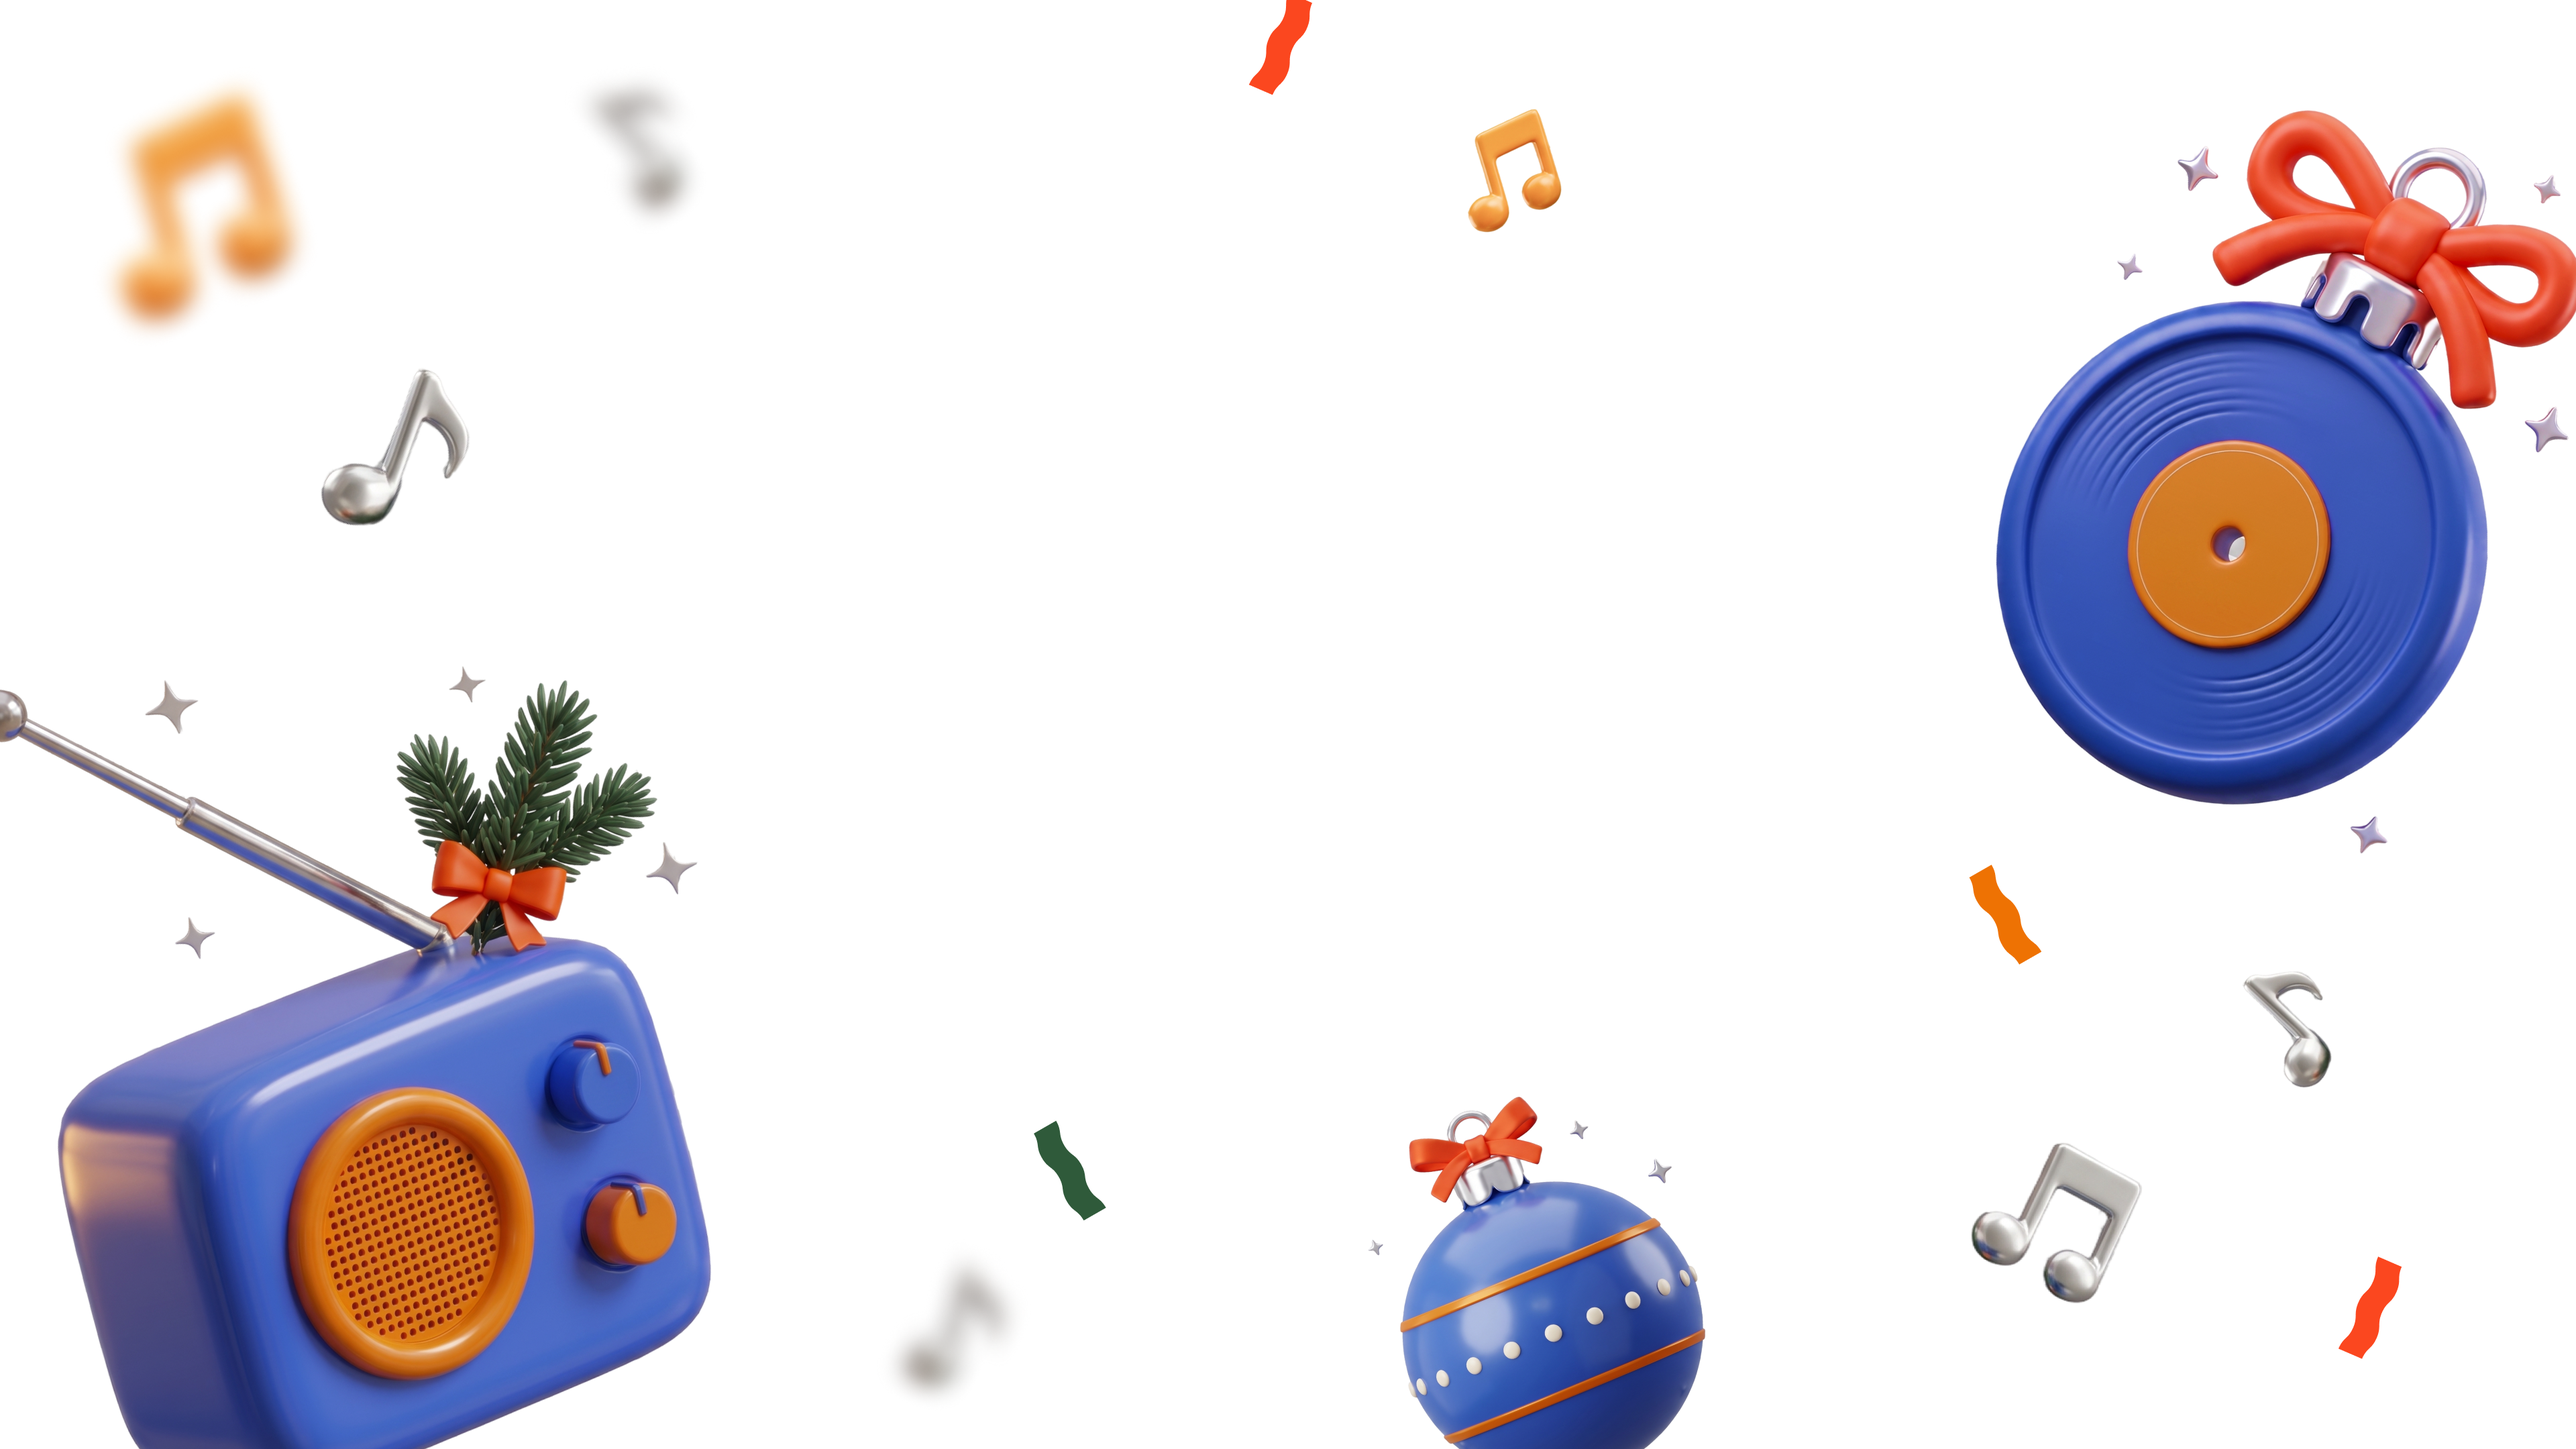
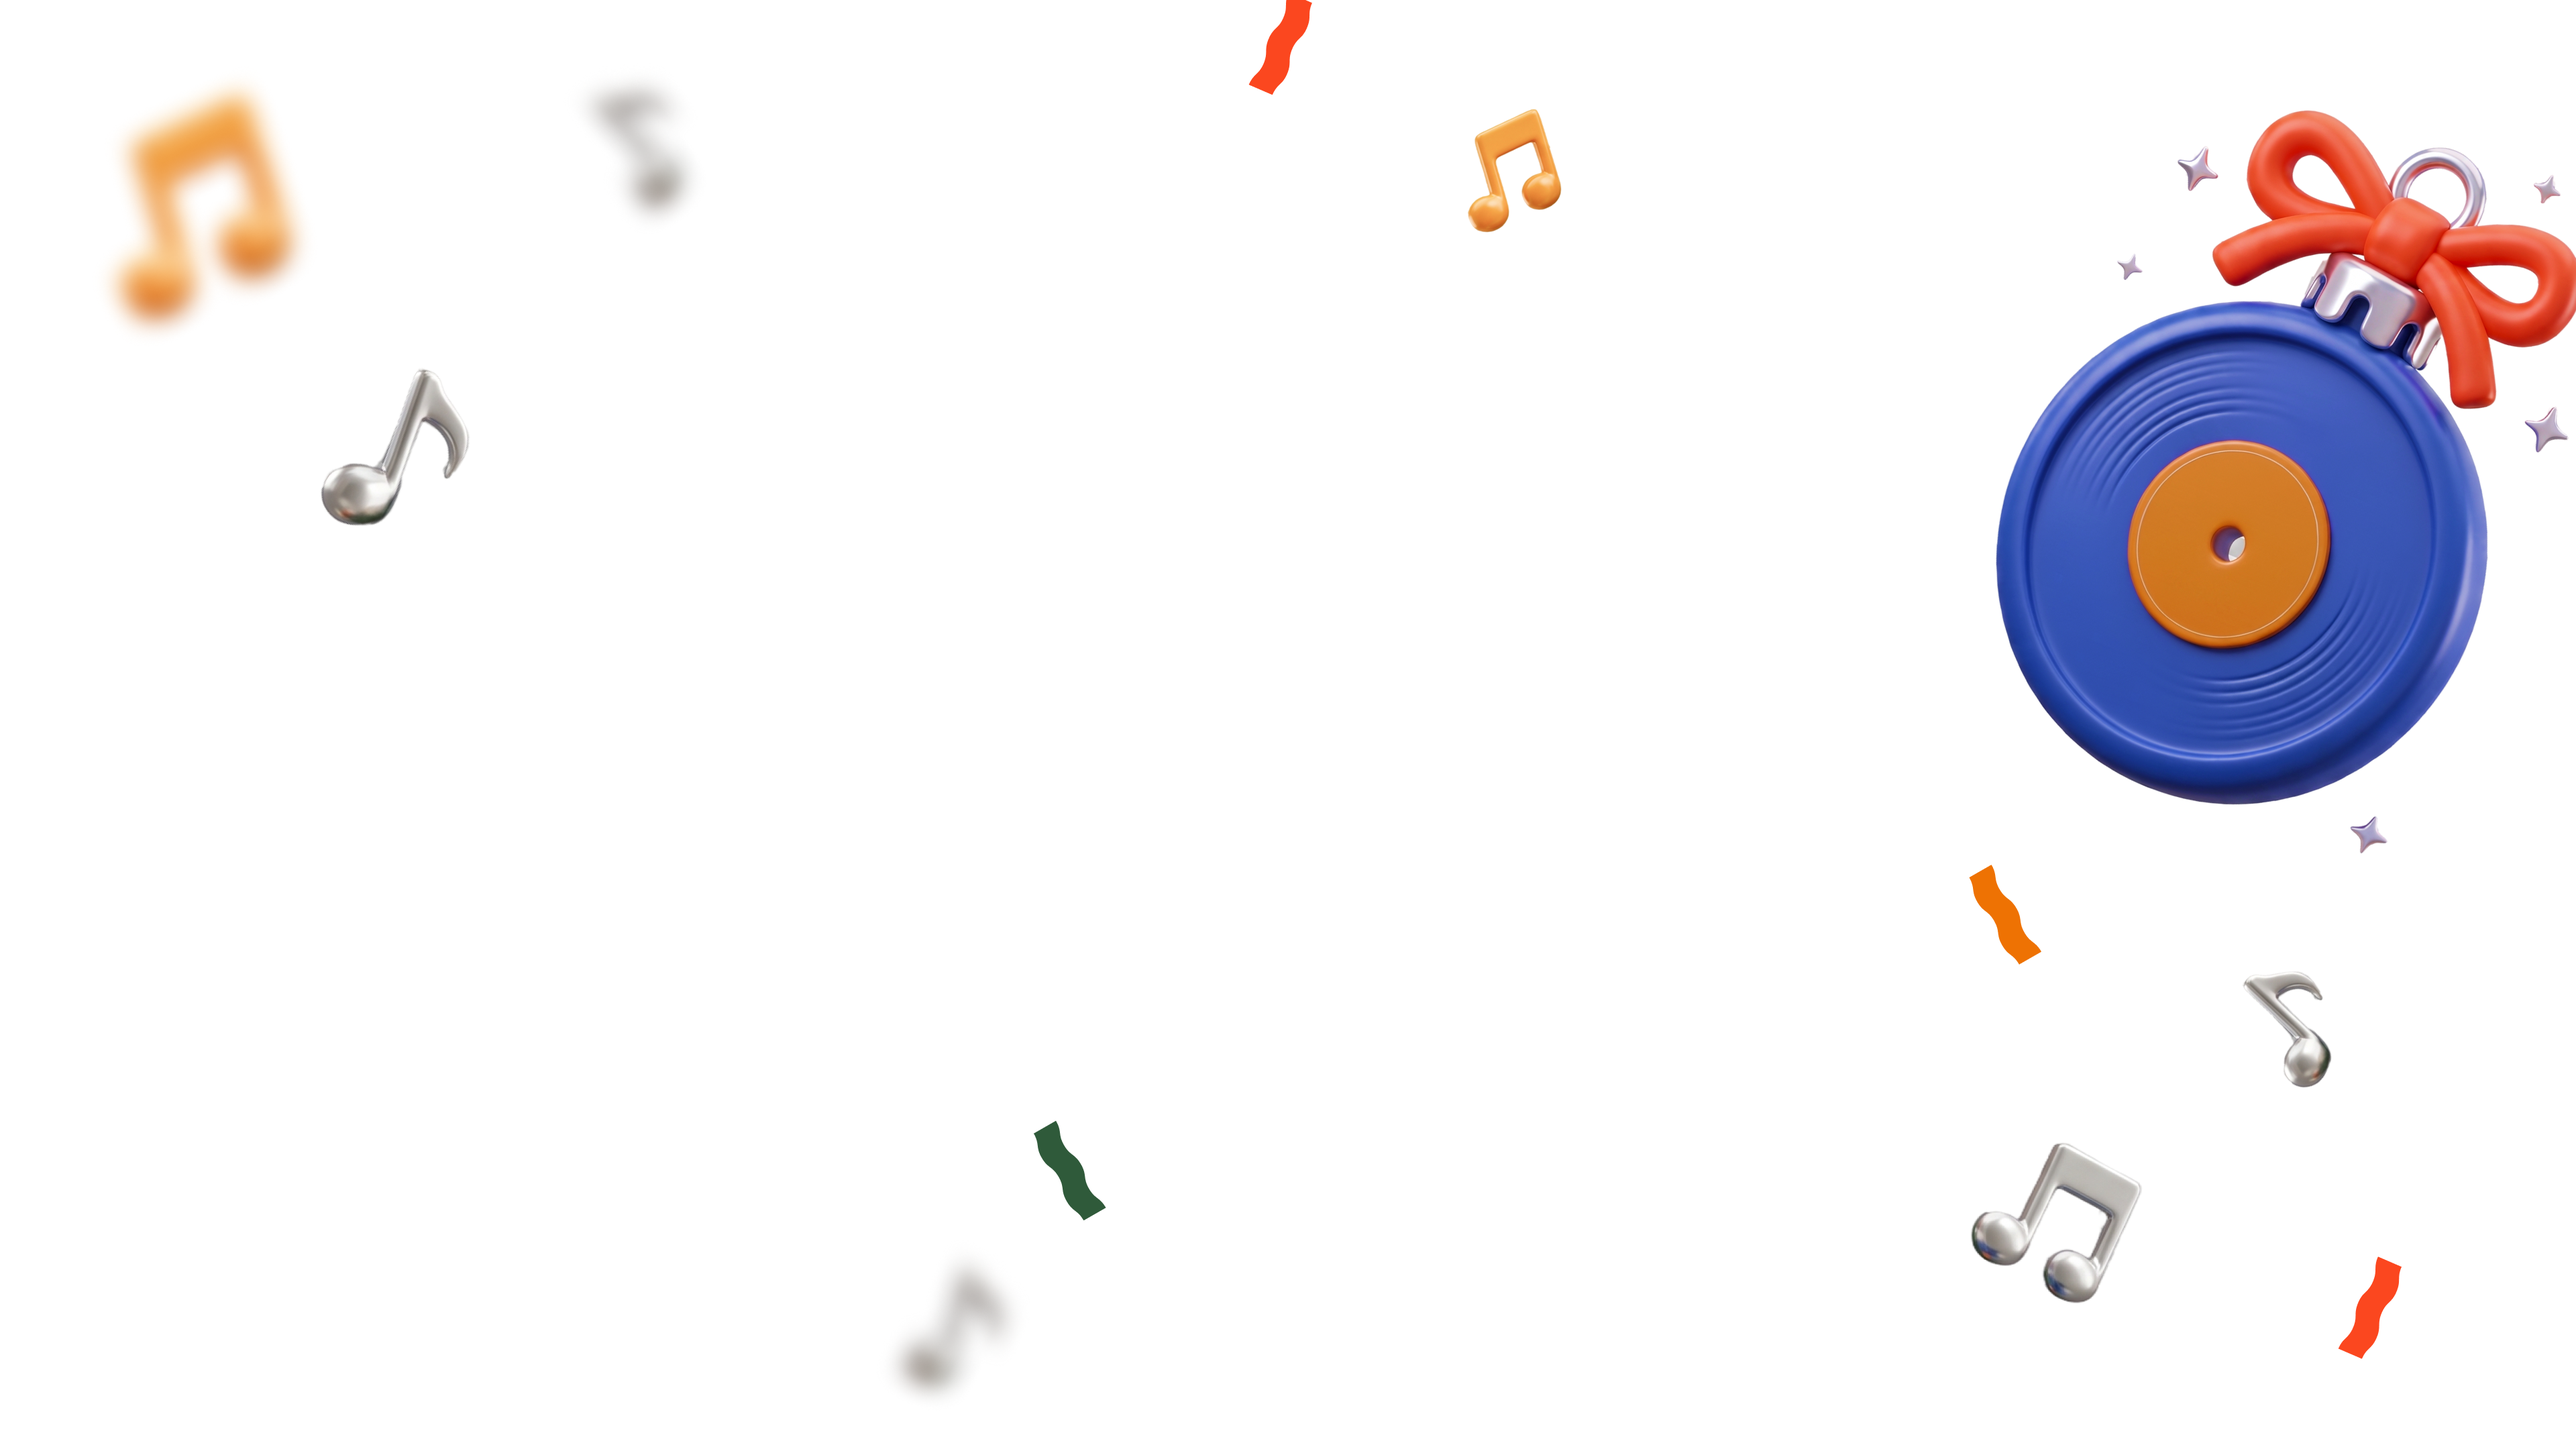
Prepare the radio landing page for production

diff --git a/public/styles.css b/public/styles.css
@@ -16,12 +16,12 @@ body {
 }
 
 .broadcast picture,
-.broadcast img {
-  display: block;
+.broadcast picture img {
   width: 100%;
 }
 
 .broadcast img {
+  display: block;
   height: auto;
   font: inherit;
   text-align: center;
@@ -34,12 +34,26 @@ body {
 
 .broadcast__title,
 .broadcast__schedule,
-.broadcast__invitation {
+.broadcast__invitation,
+.broadcast__radio,
+.broadcast__ornament {
   position: absolute;
   margin: 0;
 }
 
-/* Positions are proportional to the original 1920 × 1080 and 1080 × 1920 frames. */
+.broadcast__radio {
+  bottom: 3%;
+  left: 1.8%;
+  width: 25.5%;
+}
+
+.broadcast__ornament {
+  bottom: 3.6%;
+  left: 53%;
+  width: 11.6%;
+}
+
+/* Text positions follow the original 1920 × 1080 and 1080 × 1920 frames. */
 .broadcast__title {
   top: 22.593%;
   left: 23.958%;
@@ -63,6 +77,19 @@ body {
 @media (max-width: 640px), (orientation: portrait) {
   .broadcast {
     aspect-ratio: 9 / 16;
+  }
+
+  .broadcast__radio {
+    bottom: 2.7%;
+    left: 3.4%;
+    width: 50%;
+  }
+
+  .broadcast__ornament {
+    bottom: 18%;
+    right: 9%;
+    left: auto;
+    width: 26%;
   }
 
   .broadcast__title {

diff --git a/public/index.html b/public/index.html
@@ -14,6 +14,8 @@
       <source media="(max-width: 640px), (orientation: portrait)" srcset="assets/decor-mobile.webp">
       <img src="assets/decor-desktop.webp" width="1920" height="1080" alt="" fetchpriority="high">
     </picture>
+    <img class="broadcast__radio" src="assets/radio.webp" width="1317" height="1464" alt="">
+    <img class="broadcast__ornament" src="assets/ball.webp" width="504" height="574" alt="">
 
     <h1 class="broadcast__title">
       <picture>

diff --git a/README.md b/README.md
@@ -10,6 +10,10 @@ docker compose up --build -d
 
 Сайт откроется по адресу [http://127.0.0.1:18174](http://127.0.0.1:18174). Переменная `VMESTERADIO_PORT` задаёт порт на хосте.
 
+## Выкладка
+
+После обновления `master` GitHub Actions запускает выкладку на [vmesteradio.knzteam.ru](https://vmesteradio.knzteam.ru/). Для запуска требуется подтверждение владельца в environment `production`. Сервер публикует только файлы из `public/` для актуального коммита `master`.
+
 ## Ветки
 
 - `dev` — единая рабочая ветка команды и ветка по умолчанию. Участники с прямым доступом работают в ней: pull → изменения → проверки → commit → повторная синхронизация → push в ту же `dev`.
